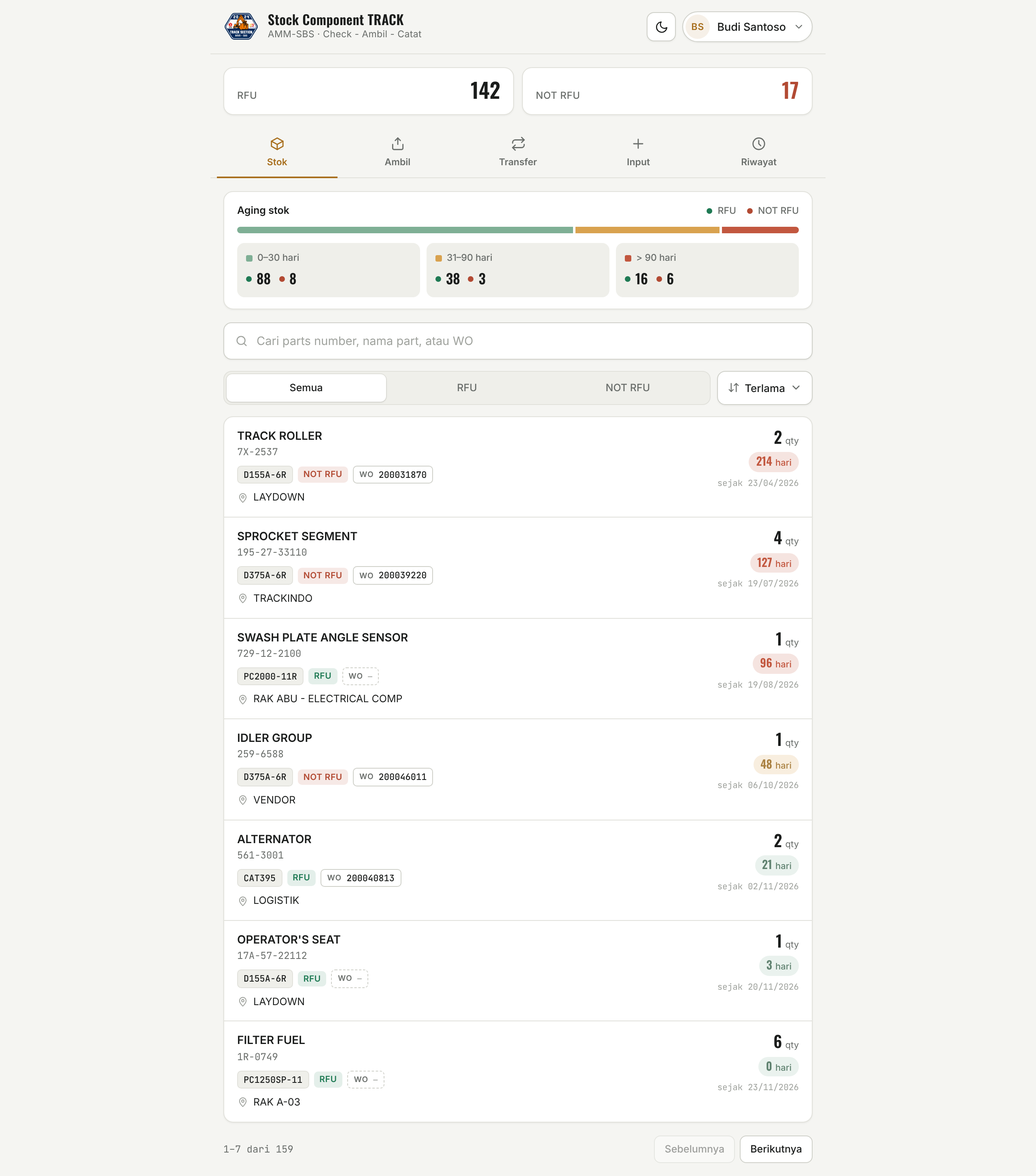
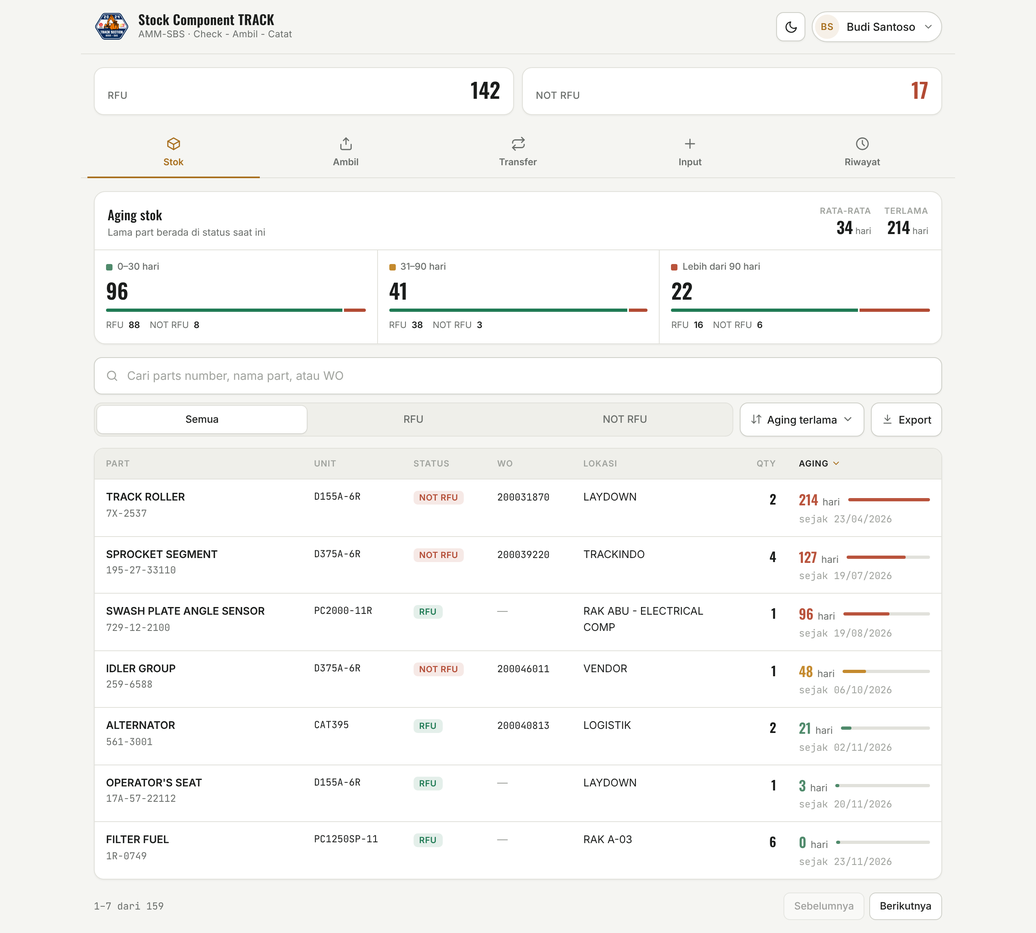
Mockup: rapikan tampilan aging (panel ringkasan, kartu HP, tabel desktop)
Claude-Session: https://claude.ai/code/session_01BmAvrCdKGvPi1XLze8eEpq

diff --git a/mockup/login-nrp-wo/mockup-login-nrp.html b/mockup/login-nrp-wo/mockup-login-nrp.html
@@ -229,48 +229,94 @@
   .picked .mono{font-size:11.5px;}
   .wo{font-size:10px;font-weight:700;letter-spacing:.4px;color:var(--muted);border:1px solid var(--line-2);border-radius:4px;padding:0 4px;}
   .wov{font-size:12px !important;color:var(--text) !important;}
-  .aging{margin:16px 16px 6px;padding:14px 16px 14px;background:var(--field);border:1px solid var(--line);border-radius:12px;box-shadow:var(--shadow);}
-  .ag-h{display:flex;justify-content:space-between;align-items:center;font-size:12.5px;font-weight:600;margin-bottom:10px;}
-  .ag-leg{font-weight:500;color:var(--muted);font-size:11.5px;display:flex;align-items:center;gap:5px;}
-  .ag-leg .dot+.dot{margin-left:0;}
-  .dot{display:inline-block;width:7px;height:7px;border-radius:50%;margin-right:2px;}
-  .dot.g{background:var(--green);} .dot.r{background:var(--red);}
-  .ag-leg .dot.r{margin-left:8px;}
-  .ag-bar{display:flex;gap:3px;height:8px;border-radius:4px;overflow:hidden;}
-  .ag-bar i{display:block;}
-  .ag-bar .a1,.bk.a1 .bk-l::before{background:var(--a1);}
-  .ag-bar .a2,.bk.a2 .bk-l::before{background:var(--a2);}
-  .ag-bar .a3,.bk.a3 .bk-l::before{background:var(--a3);}
-  .bks{display:grid;grid-template-columns:repeat(3,1fr);gap:8px;margin-top:12px;}
-  .bk{padding:9px 10px;border-radius:9px;background:var(--soft);cursor:pointer;border:1px solid transparent;}
-  .bk:hover{border-color:var(--line-2);}
-  .bk-l{font-size:11.5px;color:var(--muted);font-weight:500;display:flex;align-items:center;gap:6px;}
-  .bk-l::before{content:"";width:8px;height:8px;border-radius:2px;}
-  .bk-n{display:flex;gap:10px;margin-top:4px;font-family:'Oswald',sans-serif;font-weight:600;font-size:17px;}
-  .bk-n span{display:flex;align-items:center;gap:4px;}
-  :root{--a1:#5E8E74;--a2:#D99A42;--a3:#D2654F;}
-  :root[data-theme="light"]{--a1:#7FAF95;--a2:#D9A24F;--a3:#C2573F;}
-  .sbar{display:flex;gap:8px;padding:10px 16px 14px;}
-  .seg.sm{flex:1;}
-  .sbar .dd{flex-shrink:0;width:auto !important;} .sbar .seg{flex-basis:auto !important;} .sbar .dd svg:first-child{color:var(--muted);}
-  .sk{display:flex;gap:14px;padding:14px 16px;border-bottom:1px solid var(--line);}
+  :root{--a1:#6FA487;--a2:#D99A42;--a3:#D2654F;}
+  :root[data-theme="light"]{--a1:#4F8A6B;--a2:#C48A2E;--a3:#B9533C;}
+  .agp{margin:16px 16px 4px;background:var(--field);border:1px solid var(--line);border-radius:14px;box-shadow:var(--shadow);overflow:hidden;}
+  .agp-h{display:flex;justify-content:space-between;align-items:flex-start;gap:12px;padding:16px 16px 12px;}
+  .agp-t{font-family:'Oswald',sans-serif;font-weight:500;font-size:16px;letter-spacing:.2px;}
+  .agp-s{font-size:12px;color:var(--muted);margin-top:1px;}
+  .agp-k{display:flex;gap:16px;}
+  .agp-k div{text-align:right;}
+  .agp-k span{display:block;font-size:10.5px;font-weight:600;letter-spacing:.5px;text-transform:uppercase;color:var(--faint);}
+  .agp-k b{font-family:'Oswald',sans-serif;font-weight:600;font-size:20px;line-height:1.1;}
+  .agp-k em{font-style:normal;font-size:11px;color:var(--muted);margin-left:3px;}
+  .bks{display:grid;grid-template-columns:repeat(3,1fr);border-top:1px solid var(--line);}
+  .bk{all:unset;box-sizing:border-box;cursor:pointer;padding:12px 14px 14px;border-left:1px solid var(--line);position:relative;}
+  .bk:first-child{border-left:none;}
+  .bk:hover{background:var(--soft);}
+  .bk.on{background:var(--soft);}
+  .bk.on::after{content:"";position:absolute;left:0;right:0;top:-1px;height:2px;}
+  .bk.a1.on::after{background:var(--a1);} .bk.a2.on::after{background:var(--a2);} .bk.a3.on::after{background:var(--a3);}
+  .bk-l{display:flex;align-items:center;gap:6px;font-size:11.5px;font-weight:500;color:var(--muted);white-space:nowrap;}
+  .bk-l i{width:8px;height:8px;border-radius:2px;}
+  .bk.a1 .bk-l i{background:var(--a1);} .bk.a2 .bk-l i{background:var(--a2);} .bk.a3 .bk-l i{background:var(--a3);}
+  .bk-n{font-family:'Oswald',sans-serif;font-weight:600;font-size:26px;line-height:1.1;margin:6px 0 8px;color:var(--text);}
+  .bk-split{display:flex;gap:2px;height:4px;border-radius:2px;overflow:hidden;}
+  .bk-split .g{background:var(--green);} .bk-split .r{background:var(--red);}
+  .bk-f{display:flex;flex-direction:column;gap:1px;margin-top:8px;font-size:11px;color:var(--muted);}
+  .bk-f b{color:var(--text);font-weight:600;margin-left:3px;}
+  @media (min-width:600px){ .bk-f{flex-direction:row;gap:12px;} }
+
+  .tools{padding:0 16px;}
+  .tools .search{margin:14px 0 0;}
+  .sbar{display:flex;gap:8px;padding:10px 0 14px;}
+  .seg.sm{flex:1;flex-basis:auto !important;}
+  .sbar .dd{flex-shrink:0;width:auto !important;} .sbar .dd svg:first-child{color:var(--muted);width:15px;height:15px;}
+  .sbar .dd.ex{display:none;}
+  .active-f{display:flex;align-items:center;justify-content:space-between;margin:12px 0 10px;font-size:12px;color:var(--muted);}
+  .active-f span{display:inline-flex;align-items:center;gap:6px;height:28px;padding:0 6px 0 10px;border-radius:999px;background:color-mix(in srgb,var(--a3) 12%,transparent);color:var(--a3);font-weight:600;}
+  .active-f button{all:unset;cursor:pointer;width:18px;height:18px;display:grid;place-items:center;border-radius:50%;font-size:14px;line-height:1;}
+  .active-f em{font-style:normal;}
+
+  .sk{padding:14px 16px 14px;border-bottom:1px solid var(--line);}
   .sk:last-child{border-bottom:none;}
-  .sk-b{flex:1;min-width:0;}
+  .sk-top{display:flex;justify-content:space-between;gap:12px;}
   .sk-t{font-weight:600;font-size:14px;line-height:1.3;}
   .sk-pn{font-size:12px;color:var(--muted);margin-top:2px;}
-  .sk-loc{display:flex;align-items:center;gap:6px;font-size:12.5px;margin-top:8px;}
-  .sk-loc svg{width:14px;height:14px;color:var(--faint);flex-shrink:0;}
-  .sk-r{display:flex;flex-direction:column;align-items:flex-end;gap:6px;flex-shrink:0;}
-  .sk-q{display:flex;align-items:baseline;gap:4px;}
-  .sk-q b{font-family:'Oswald',sans-serif;font-size:20px;font-weight:600;line-height:1;}
-  .sk-q span{font-size:11px;color:var(--muted);}
-  .age{display:flex;align-items:baseline;gap:4px;padding:3px 9px;border-radius:999px;}
-  .age b{font-family:'Oswald',sans-serif;font-weight:600;font-size:14px;line-height:1.2;}
-  .age span{font-size:11px;font-weight:500;}
-  .age.a1{background:color-mix(in srgb,var(--a1) 16%,transparent);color:color-mix(in srgb,var(--a1) 70%,var(--text));}
-  .age.a2{background:color-mix(in srgb,var(--a2) 18%,transparent);color:color-mix(in srgb,var(--a2) 75%,var(--text));}
-  .age.a3{background:color-mix(in srgb,var(--a3) 16%,transparent);color:var(--a3);}
-  .sk-d{font-size:10.5px;color:var(--faint);}
+  .sk-q{text-align:right;flex-shrink:0;}
+  .sk-q b{font-family:'Oswald',sans-serif;font-size:22px;font-weight:600;line-height:1;display:block;}
+  .sk-q span{font-size:10.5px;color:var(--muted);}
+  .sk-grid{display:grid;grid-template-columns:auto auto 1fr;gap:8px 18px;margin:12px 0 0;padding:10px 0 0;border-top:1px dashed var(--line);}
+  .sk-grid div{min-width:0;} .sk-grid .wide{grid-column:1/-1;}
+  .sk-grid dt{font-size:10.5px;font-weight:600;letter-spacing:.5px;text-transform:uppercase;color:var(--faint);}
+  .sk-grid dd{margin:2px 0 0;font-size:12.5px;}
+  .sk-grid dd.mono,.sk-grid dd .mono{font-size:12px;}
+  .nil{color:var(--faint);}
+  .sk-age{display:grid;grid-template-columns:auto 1fr auto;align-items:center;gap:10px;margin-top:12px;padding:9px 12px;border-radius:9px;background:var(--soft);}
+  .ag-d{font-size:12px;color:var(--muted);white-space:nowrap;}
+  .ag-d b{font-family:'Oswald',sans-serif;font-weight:600;font-size:17px;margin-right:2px;}
+  .ag-d.a1 b{color:var(--a1);} .ag-d.a2 b{color:var(--a2);} .ag-d.a3 b{color:var(--a3);}
+  .ag-s{font-size:10.5px;color:var(--faint);white-space:nowrap;}
+  .mtr{display:block;height:4px;border-radius:2px;background:var(--line);overflow:hidden;min-width:40px;}
+  .mtr i{display:block;height:100%;border-radius:2px;}
+  .mtr.a1 i{background:var(--a1);} .mtr.a2 i{background:var(--a2);} .mtr.a3 i{background:var(--a3);}
+
+  .tbl-wrap{display:none;margin:0 16px;background:var(--field);border:1px solid var(--line);border-radius:12px;box-shadow:var(--shadow);overflow:hidden;}
+  .tbl{width:100%;border-collapse:collapse;font-size:13px;}
+  .tbl th{text-align:left;font-size:10.5px;font-weight:600;letter-spacing:.6px;text-transform:uppercase;color:var(--faint);padding:11px 14px;background:var(--soft);border-bottom:1px solid var(--line);white-space:nowrap;}
+  .tbl th svg{width:12px;height:12px;display:inline-block;vertical-align:-2px;color:var(--amber);}
+  .tbl th.agc{color:var(--text);}
+  .tbl td{padding:12px 14px;border-bottom:1px solid var(--line);vertical-align:top;}
+  .tbl tr:last-child td{border-bottom:none;}
+  .tbl tr:hover td{background:var(--soft);}
+  .tbl td.mono{font-family:'JetBrains Mono',monospace;font-size:12px;}
+  .tbl .mono{font-size:12px;}
+  .tp{font-weight:600;font-size:13px;} .tpn{font-size:11.5px;color:var(--muted);margin-top:1px;}
+  .tbl .num{text-align:right;font-family:'Oswald',sans-serif;font-weight:600;font-size:16px;}
+  .tbl th.num{font-family:'Inter';font-size:10.5px;}
+  .tbl .loc{max-width:180px;}
+  .tbl .agc{width:190px;}
+  .ag-row{display:flex;align-items:center;gap:10px;}
+  .ag-row .mtr{flex:1;}
+  .tbl .ag-s{margin-top:2px;}
+
+  @media (min-width:900px){
+    .app{max-width:1080px;}
+    .rlist.cards{display:none;}
+    .tbl-wrap{display:block;}
+    .sbar .dd.ex{display:flex;}
+    .tools .search{margin-top:16px;}
+  }
   .formp{padding:20px 16px 32px;}
   .ff{margin-bottom:16px;}
   .ff label{display:block;font-size:12.5px;font-weight:500;color:var(--muted);margin-bottom:7px;}
@@ -398,109 +444,150 @@
     </nav>
 
     <div class="tab" id="t-stok">
-      <div class="aging">
-        <div class="ag-h"><span>Aging stok</span><span class="ag-leg"><i class="dot g"></i>RFU <i class="dot r"></i>NOT RFU</span></div>
-        <div class="ag-bar">
-          <i class="a1" style="flex:96"></i><i class="a2" style="flex:41"></i><i class="a3" style="flex:22"></i>
+      <section class="agp">
+        <div class="agp-h">
+          <div><div class="agp-t">Aging stok</div><div class="agp-s">Lama part berada di status saat ini</div></div>
+          <div class="agp-k"><div><span>Rata-rata</span><b>34</b><em>hari</em></div><div><span>Terlama</span><b>214</b><em>hari</em></div></div>
         </div>
         <div class="bks">
-          <div class="bk a1"><div class="bk-l">0–30 hari</div><div class="bk-n"><span><i class="dot g"></i>88</span><span><i class="dot r"></i>8</span></div></div>
-          <div class="bk a2"><div class="bk-l">31–90 hari</div><div class="bk-n"><span><i class="dot g"></i>38</span><span><i class="dot r"></i>3</span></div></div>
-          <div class="bk a3"><div class="bk-l">&gt; 90 hari</div><div class="bk-n"><span><i class="dot g"></i>16</span><span><i class="dot r"></i>6</span></div></div>
+          <button class="bk a1">
+          <div class="bk-l"><i></i>0–30 hari</div>
+          <div class="bk-n">96</div>
+          <div class="bk-split"><i class="g" style="flex:88"></i><i class="r" style="flex:8"></i></div>
+          <div class="bk-f"><span>RFU <b>88</b></span><span>NOT RFU <b>8</b></span></div>
+        </button>
+          <button class="bk a2">
+          <div class="bk-l"><i></i>31–90 hari</div>
+          <div class="bk-n">41</div>
+          <div class="bk-split"><i class="g" style="flex:38"></i><i class="r" style="flex:3"></i></div>
+          <div class="bk-f"><span>RFU <b>38</b></span><span>NOT RFU <b>3</b></span></div>
+        </button>
+          <button class="bk a3">
+          <div class="bk-l"><i></i>Lebih dari 90 hari</div>
+          <div class="bk-n">22</div>
+          <div class="bk-split"><i class="g" style="flex:16"></i><i class="r" style="flex:6"></i></div>
+          <div class="bk-f"><span>RFU <b>16</b></span><span>NOT RFU <b>6</b></span></div>
+        </button>
+        </div>
+      </section>
+      <div class="tools">
+        <div class="search"><svg viewBox="0 0 24 24" fill="none" stroke="currentColor" stroke-width="1.8" stroke-linecap="round" stroke-linejoin="round"><circle cx="11" cy="11" r="7"/><path d="m20 20-3.5-3.5"/></svg><input placeholder="Cari parts number, nama part, atau WO"></div>
+        <div class="sbar">
+          <div class="seg sm"><button class="on">Semua</button><button>RFU</button><button>NOT RFU</button></div>
+          <button class="dd"><svg viewBox="0 0 24 24" fill="none" stroke="currentColor" stroke-width="1.9" stroke-linecap="round" stroke-linejoin="round"><path d="M7 4v16"/><path d="m3 16 4 4 4-4"/><path d="M17 20V4"/><path d="m13 8 4-4 4 4"/></svg><span class="dd-v">Aging terlama</span><svg viewBox="0 0 24 24" fill="none" stroke="currentColor" stroke-width="2" stroke-linecap="round" stroke-linejoin="round"><path d="m6 9 6 6 6-6"/></svg></button>
+          <button class="dd ex"><svg viewBox="0 0 24 24" fill="none" stroke="currentColor" stroke-width="1.9" stroke-linecap="round" stroke-linejoin="round"><path d="M12 4v11"/><path d="m7 10 5 5 5-5"/><path d="M5 20h14"/></svg><span class="dd-v">Export</span></button>
         </div>
       </div>
-      <div class="search"><svg viewBox="0 0 24 24" fill="none" stroke="currentColor" stroke-width="1.8" stroke-linecap="round" stroke-linejoin="round"><circle cx="11" cy="11" r="7"/><path d="m20 20-3.5-3.5"/></svg><input placeholder="Cari parts number, nama part, atau WO"></div>
-      <div class="sbar">
-        <div class="seg sm"><button class="on">Semua</button><button>RFU</button><button>NOT RFU</button></div>
-        <button class="dd"><svg viewBox="0 0 24 24" fill="none" stroke="currentColor" stroke-width="1.9" stroke-linecap="round" stroke-linejoin="round"><path d="M7 4v16"/><path d="m3 16 4 4 4-4"/><path d="M17 20V4"/><path d="m13 8 4-4 4 4"/></svg><span class="dd-v">Terlama</span><svg viewBox="0 0 24 24" fill="none" stroke="currentColor" stroke-width="2" stroke-linecap="round" stroke-linejoin="round"><path d="m6 9 6 6 6-6"/></svg></button>
-      </div>
-      <div class="rlist">
-      <div class="sk">
-        <div class="sk-b">
-          <div class="sk-t">TRACK ROLLER</div>
-          <div class="sk-pn mono">7X-2537</div>
-          <div class="rc-u"><span class="unit mono">D155A-6R</span><span class="st r">NOT RFU</span><span class="woc"><b>WO</b><span class="mono">200031870</span></span></div>
-          <div class="sk-loc"><svg viewBox="0 0 24 24" fill="none" stroke="currentColor" stroke-width="1.8" stroke-linecap="round" stroke-linejoin="round"><path d="M12 21s-7-6.2-7-11.5A7 7 0 0 1 19 9.5C19 14.8 12 21 12 21Z"/><circle cx="12" cy="9.5" r="2.5"/></svg>LAYDOWN</div>
+      <div class="rlist cards"><div class="sk">
+        <div class="sk-top">
+          <div class="sk-id"><div class="sk-t">TRACK ROLLER</div><div class="sk-pn mono">7X-2537</div></div>
+          <div class="sk-q"><b>2</b><span>pcs</span></div>
         </div>
-        <div class="sk-r">
-          <div class="sk-q"><b>2</b><span>qty</span></div>
-          <div class="age a3"><b>214</b><span>hari</span></div>
-          <div class="sk-d mono">sejak 23/04/2026</div>
-        </div>
+        <dl class="sk-grid">
+          <div><dt>Unit</dt><dd class="mono">D155A-6R</dd></div>
+          <div><dt>Status</dt><dd><span class="st r">NOT RFU</span></dd></div>
+          <div><dt>WO</dt><dd><span class="mono">200031870</span></dd></div>
+          <div class="wide"><dt>Lokasi</dt><dd>LAYDOWN</dd></div>
+        </dl>
+        <div class="sk-age"><div class="ag-d a3"><b>214</b> hari</div><span class="mtr a3"><i style="width:100%"></i></span><div class="ag-s mono">sejak 23/04/2026</div></div>
       </div><div class="sk">
-        <div class="sk-b">
-          <div class="sk-t">SPROCKET SEGMENT</div>
-          <div class="sk-pn mono">195-27-33110</div>
-          <div class="rc-u"><span class="unit mono">D375A-6R</span><span class="st r">NOT RFU</span><span class="woc"><b>WO</b><span class="mono">200039220</span></span></div>
-          <div class="sk-loc"><svg viewBox="0 0 24 24" fill="none" stroke="currentColor" stroke-width="1.8" stroke-linecap="round" stroke-linejoin="round"><path d="M12 21s-7-6.2-7-11.5A7 7 0 0 1 19 9.5C19 14.8 12 21 12 21Z"/><circle cx="12" cy="9.5" r="2.5"/></svg>TRACKINDO</div>
+        <div class="sk-top">
+          <div class="sk-id"><div class="sk-t">SPROCKET SEGMENT</div><div class="sk-pn mono">195-27-33110</div></div>
+          <div class="sk-q"><b>4</b><span>pcs</span></div>
         </div>
-        <div class="sk-r">
-          <div class="sk-q"><b>4</b><span>qty</span></div>
-          <div class="age a3"><b>127</b><span>hari</span></div>
-          <div class="sk-d mono">sejak 19/07/2026</div>
-        </div>
+        <dl class="sk-grid">
+          <div><dt>Unit</dt><dd class="mono">D375A-6R</dd></div>
+          <div><dt>Status</dt><dd><span class="st r">NOT RFU</span></dd></div>
+          <div><dt>WO</dt><dd><span class="mono">200039220</span></dd></div>
+          <div class="wide"><dt>Lokasi</dt><dd>TRACKINDO</dd></div>
+        </dl>
+        <div class="sk-age"><div class="ag-d a3"><b>127</b> hari</div><span class="mtr a3"><i style="width:71%"></i></span><div class="ag-s mono">sejak 19/07/2026</div></div>
       </div><div class="sk">
-        <div class="sk-b">
-          <div class="sk-t">SWASH PLATE ANGLE SENSOR</div>
-          <div class="sk-pn mono">729-12-2100</div>
-          <div class="rc-u"><span class="unit mono">PC2000-11R</span><span class="st g">RFU</span><span class="woc none"><b>WO</b><span>–</span></span></div>
-          <div class="sk-loc"><svg viewBox="0 0 24 24" fill="none" stroke="currentColor" stroke-width="1.8" stroke-linecap="round" stroke-linejoin="round"><path d="M12 21s-7-6.2-7-11.5A7 7 0 0 1 19 9.5C19 14.8 12 21 12 21Z"/><circle cx="12" cy="9.5" r="2.5"/></svg>RAK ABU - ELECTRICAL COMP</div>
+        <div class="sk-top">
+          <div class="sk-id"><div class="sk-t">SWASH PLATE ANGLE SENSOR</div><div class="sk-pn mono">729-12-2100</div></div>
+          <div class="sk-q"><b>1</b><span>pcs</span></div>
         </div>
-        <div class="sk-r">
-          <div class="sk-q"><b>1</b><span>qty</span></div>
-          <div class="age a3"><b>96</b><span>hari</span></div>
-          <div class="sk-d mono">sejak 19/08/2026</div>
-        </div>
+        <dl class="sk-grid">
+          <div><dt>Unit</dt><dd class="mono">PC2000-11R</dd></div>
+          <div><dt>Status</dt><dd><span class="st g">RFU</span></dd></div>
+          <div><dt>WO</dt><dd><span class="nil">—</span></dd></div>
+          <div class="wide"><dt>Lokasi</dt><dd>RAK ABU - ELECTRICAL COMP</dd></div>
+        </dl>
+        <div class="sk-age"><div class="ag-d a3"><b>96</b> hari</div><span class="mtr a3"><i style="width:53%"></i></span><div class="ag-s mono">sejak 19/08/2026</div></div>
       </div><div class="sk">
-        <div class="sk-b">
-          <div class="sk-t">IDLER GROUP</div>
-          <div class="sk-pn mono">259-6588</div>
-          <div class="rc-u"><span class="unit mono">D375A-6R</span><span class="st r">NOT RFU</span><span class="woc"><b>WO</b><span class="mono">200046011</span></span></div>
-          <div class="sk-loc"><svg viewBox="0 0 24 24" fill="none" stroke="currentColor" stroke-width="1.8" stroke-linecap="round" stroke-linejoin="round"><path d="M12 21s-7-6.2-7-11.5A7 7 0 0 1 19 9.5C19 14.8 12 21 12 21Z"/><circle cx="12" cy="9.5" r="2.5"/></svg>VENDOR</div>
+        <div class="sk-top">
+          <div class="sk-id"><div class="sk-t">IDLER GROUP</div><div class="sk-pn mono">259-6588</div></div>
+          <div class="sk-q"><b>1</b><span>pcs</span></div>
         </div>
-        <div class="sk-r">
-          <div class="sk-q"><b>1</b><span>qty</span></div>
-          <div class="age a2"><b>48</b><span>hari</span></div>
-          <div class="sk-d mono">sejak 06/10/2026</div>
-        </div>
+        <dl class="sk-grid">
+          <div><dt>Unit</dt><dd class="mono">D375A-6R</dd></div>
+          <div><dt>Status</dt><dd><span class="st r">NOT RFU</span></dd></div>
+          <div><dt>WO</dt><dd><span class="mono">200046011</span></dd></div>
+          <div class="wide"><dt>Lokasi</dt><dd>VENDOR</dd></div>
+        </dl>
+        <div class="sk-age"><div class="ag-d a2"><b>48</b> hari</div><span class="mtr a2"><i style="width:27%"></i></span><div class="ag-s mono">sejak 06/10/2026</div></div>
       </div><div class="sk">
-        <div class="sk-b">
-          <div class="sk-t">ALTERNATOR</div>
-          <div class="sk-pn mono">561-3001</div>
-          <div class="rc-u"><span class="unit mono">CAT395</span><span class="st g">RFU</span><span class="woc"><b>WO</b><span class="mono">200040813</span></span></div>
-          <div class="sk-loc"><svg viewBox="0 0 24 24" fill="none" stroke="currentColor" stroke-width="1.8" stroke-linecap="round" stroke-linejoin="round"><path d="M12 21s-7-6.2-7-11.5A7 7 0 0 1 19 9.5C19 14.8 12 21 12 21Z"/><circle cx="12" cy="9.5" r="2.5"/></svg>LOGISTIK</div>
+        <div class="sk-top">
+          <div class="sk-id"><div class="sk-t">ALTERNATOR</div><div class="sk-pn mono">561-3001</div></div>
+          <div class="sk-q"><b>2</b><span>pcs</span></div>
         </div>
-        <div class="sk-r">
-          <div class="sk-q"><b>2</b><span>qty</span></div>
-          <div class="age a1"><b>21</b><span>hari</span></div>
-          <div class="sk-d mono">sejak 02/11/2026</div>
-        </div>
+        <dl class="sk-grid">
+          <div><dt>Unit</dt><dd class="mono">CAT395</dd></div>
+          <div><dt>Status</dt><dd><span class="st g">RFU</span></dd></div>
+          <div><dt>WO</dt><dd><span class="mono">200040813</span></dd></div>
+          <div class="wide"><dt>Lokasi</dt><dd>LOGISTIK</dd></div>
+        </dl>
+        <div class="sk-age"><div class="ag-d a1"><b>21</b> hari</div><span class="mtr a1"><i style="width:12%"></i></span><div class="ag-s mono">sejak 02/11/2026</div></div>
       </div><div class="sk">
-        <div class="sk-b">
-          <div class="sk-t">OPERATOR'S SEAT</div>
-          <div class="sk-pn mono">17A-57-22112</div>
-          <div class="rc-u"><span class="unit mono">D155A-6R</span><span class="st g">RFU</span><span class="woc none"><b>WO</b><span>–</span></span></div>
-          <div class="sk-loc"><svg viewBox="0 0 24 24" fill="none" stroke="currentColor" stroke-width="1.8" stroke-linecap="round" stroke-linejoin="round"><path d="M12 21s-7-6.2-7-11.5A7 7 0 0 1 19 9.5C19 14.8 12 21 12 21Z"/><circle cx="12" cy="9.5" r="2.5"/></svg>LAYDOWN</div>
+        <div class="sk-top">
+          <div class="sk-id"><div class="sk-t">OPERATOR'S SEAT</div><div class="sk-pn mono">17A-57-22112</div></div>
+          <div class="sk-q"><b>1</b><span>pcs</span></div>
         </div>
-        <div class="sk-r">
-          <div class="sk-q"><b>1</b><span>qty</span></div>
-          <div class="age a1"><b>3</b><span>hari</span></div>
-          <div class="sk-d mono">sejak 20/11/2026</div>
-        </div>
+        <dl class="sk-grid">
+          <div><dt>Unit</dt><dd class="mono">D155A-6R</dd></div>
+          <div><dt>Status</dt><dd><span class="st g">RFU</span></dd></div>
+          <div><dt>WO</dt><dd><span class="nil">—</span></dd></div>
+          <div class="wide"><dt>Lokasi</dt><dd>LAYDOWN</dd></div>
+        </dl>
+        <div class="sk-age"><div class="ag-d a1"><b>3</b> hari</div><span class="mtr a1"><i style="width:4%"></i></span><div class="ag-s mono">sejak 20/11/2026</div></div>
       </div><div class="sk">
-        <div class="sk-b">
-          <div class="sk-t">FILTER FUEL</div>
-          <div class="sk-pn mono">1R-0749</div>
-          <div class="rc-u"><span class="unit mono">PC1250SP-11</span><span class="st g">RFU</span><span class="woc none"><b>WO</b><span>–</span></span></div>
-          <div class="sk-loc"><svg viewBox="0 0 24 24" fill="none" stroke="currentColor" stroke-width="1.8" stroke-linecap="round" stroke-linejoin="round"><path d="M12 21s-7-6.2-7-11.5A7 7 0 0 1 19 9.5C19 14.8 12 21 12 21Z"/><circle cx="12" cy="9.5" r="2.5"/></svg>RAK A-03</div>
+        <div class="sk-top">
+          <div class="sk-id"><div class="sk-t">FILTER FUEL</div><div class="sk-pn mono">1R-0749</div></div>
+          <div class="sk-q"><b>6</b><span>pcs</span></div>
         </div>
-        <div class="sk-r">
-          <div class="sk-q"><b>6</b><span>qty</span></div>
-          <div class="age a1"><b>0</b><span>hari</span></div>
-          <div class="sk-d mono">sejak 23/11/2026</div>
-        </div>
-      </div>
-      </div>
+        <dl class="sk-grid">
+          <div><dt>Unit</dt><dd class="mono">PC1250SP-11</dd></div>
+          <div><dt>Status</dt><dd><span class="st g">RFU</span></dd></div>
+          <div><dt>WO</dt><dd><span class="nil">—</span></dd></div>
+          <div class="wide"><dt>Lokasi</dt><dd>RAK A-03</dd></div>
+        </dl>
+        <div class="sk-age"><div class="ag-d a1"><b>0</b> hari</div><span class="mtr a1"><i style="width:4%"></i></span><div class="ag-s mono">sejak 23/11/2026</div></div>
+      </div></div>
+      <div class="tbl-wrap"><table class="tbl">
+        <thead><tr><th>Part</th><th>Unit</th><th>Status</th><th>WO</th><th>Lokasi</th><th class="num">Qty</th><th class="agc">Aging <svg viewBox="0 0 24 24" fill="none" stroke="currentColor" stroke-width="2" stroke-linecap="round" stroke-linejoin="round"><path d="m6 9 6 6 6-6"/></svg></th></tr></thead>
+        <tbody><tr><td><div class="tp">TRACK ROLLER</div><div class="tpn mono">7X-2537</div></td>
+        <td class="mono">D155A-6R</td><td><span class="st r">NOT RFU</span></td><td><span class="mono">200031870</span></td>
+        <td class="loc">LAYDOWN</td><td class="num">2</td>
+        <td class="agc"><div class="ag-row"><span class="ag-d a3"><b>214</b> hari</span><span class="mtr a3"><i style="width:100%"></i></span></div><div class="ag-s mono">sejak 23/04/2026</div></td></tr><tr><td><div class="tp">SPROCKET SEGMENT</div><div class="tpn mono">195-27-33110</div></td>
+        <td class="mono">D375A-6R</td><td><span class="st r">NOT RFU</span></td><td><span class="mono">200039220</span></td>
+        <td class="loc">TRACKINDO</td><td class="num">4</td>
+        <td class="agc"><div class="ag-row"><span class="ag-d a3"><b>127</b> hari</span><span class="mtr a3"><i style="width:71%"></i></span></div><div class="ag-s mono">sejak 19/07/2026</div></td></tr><tr><td><div class="tp">SWASH PLATE ANGLE SENSOR</div><div class="tpn mono">729-12-2100</div></td>
+        <td class="mono">PC2000-11R</td><td><span class="st g">RFU</span></td><td><span class="nil">—</span></td>
+        <td class="loc">RAK ABU - ELECTRICAL COMP</td><td class="num">1</td>
+        <td class="agc"><div class="ag-row"><span class="ag-d a3"><b>96</b> hari</span><span class="mtr a3"><i style="width:53%"></i></span></div><div class="ag-s mono">sejak 19/08/2026</div></td></tr><tr><td><div class="tp">IDLER GROUP</div><div class="tpn mono">259-6588</div></td>
+        <td class="mono">D375A-6R</td><td><span class="st r">NOT RFU</span></td><td><span class="mono">200046011</span></td>
+        <td class="loc">VENDOR</td><td class="num">1</td>
+        <td class="agc"><div class="ag-row"><span class="ag-d a2"><b>48</b> hari</span><span class="mtr a2"><i style="width:27%"></i></span></div><div class="ag-s mono">sejak 06/10/2026</div></td></tr><tr><td><div class="tp">ALTERNATOR</div><div class="tpn mono">561-3001</div></td>
+        <td class="mono">CAT395</td><td><span class="st g">RFU</span></td><td><span class="mono">200040813</span></td>
+        <td class="loc">LOGISTIK</td><td class="num">2</td>
+        <td class="agc"><div class="ag-row"><span class="ag-d a1"><b>21</b> hari</span><span class="mtr a1"><i style="width:12%"></i></span></div><div class="ag-s mono">sejak 02/11/2026</div></td></tr><tr><td><div class="tp">OPERATOR'S SEAT</div><div class="tpn mono">17A-57-22112</div></td>
+        <td class="mono">D155A-6R</td><td><span class="st g">RFU</span></td><td><span class="nil">—</span></td>
+        <td class="loc">LAYDOWN</td><td class="num">1</td>
+        <td class="agc"><div class="ag-row"><span class="ag-d a1"><b>3</b> hari</span><span class="mtr a1"><i style="width:4%"></i></span></div><div class="ag-s mono">sejak 20/11/2026</div></td></tr><tr><td><div class="tp">FILTER FUEL</div><div class="tpn mono">1R-0749</div></td>
+        <td class="mono">PC1250SP-11</td><td><span class="st g">RFU</span></td><td><span class="nil">—</span></td>
+        <td class="loc">RAK A-03</td><td class="num">6</td>
+        <td class="agc"><div class="ag-row"><span class="ag-d a1"><b>0</b> hari</span><span class="mtr a1"><i style="width:4%"></i></span></div><div class="ag-s mono">sejak 23/11/2026</div></td></tr></tbody>
+      </table></div>
       <div class="pager"><span class="mono">1–7 dari 159</span><div><button disabled>Sebelumnya</button><button>Berikutnya</button></div></div>
     </div>
 

diff --git a/mockup/login-nrp-wo/README.md b/mockup/login-nrp-wo/README.md
@@ -23,7 +23,9 @@ Mockup tampilan (belum diterapkan ke web dan database). Buka `mockup-login-nrp.h
 ## Aging komponen
 - Tab Stok menampilkan sudah berapa hari tiap baris part berada di status RFU / NOT RFU. Hari 0 dihitung dari tanggal part diinput (`created_at` baris stok).
 - Warna aging: 0–30 hari hijau, 31–90 hari oranye, lebih dari 90 hari merah (batas masih usulan).
-- Ringkasan di atas daftar menunjukkan jumlah RFU dan NOT RFU per rentang aging. Daftar bisa diurutkan dari yang terlama, dan pencarian juga mencakup WO.
+- Panel ringkasan: rata-rata dan aging terlama, serta jumlah part per rentang (dengan rincian RFU / NOT RFU). Klik rentang untuk menyaring daftar.
+- HP: kartu part dengan unit, status, WO, lokasi, dan bar aging. Desktop: tabel dengan kolom Aging yang bisa diurutkan, plus tombol Export.
+- Pencarian juga mencakup WO.
 
 ## Rencana perubahan database (menunggu persetujuan)
 - Tabel baru `karyawan`: `nrp`, `nama`, `admin` (`ya` / kosong), `wajib_ganti_password`, `aktif`.
